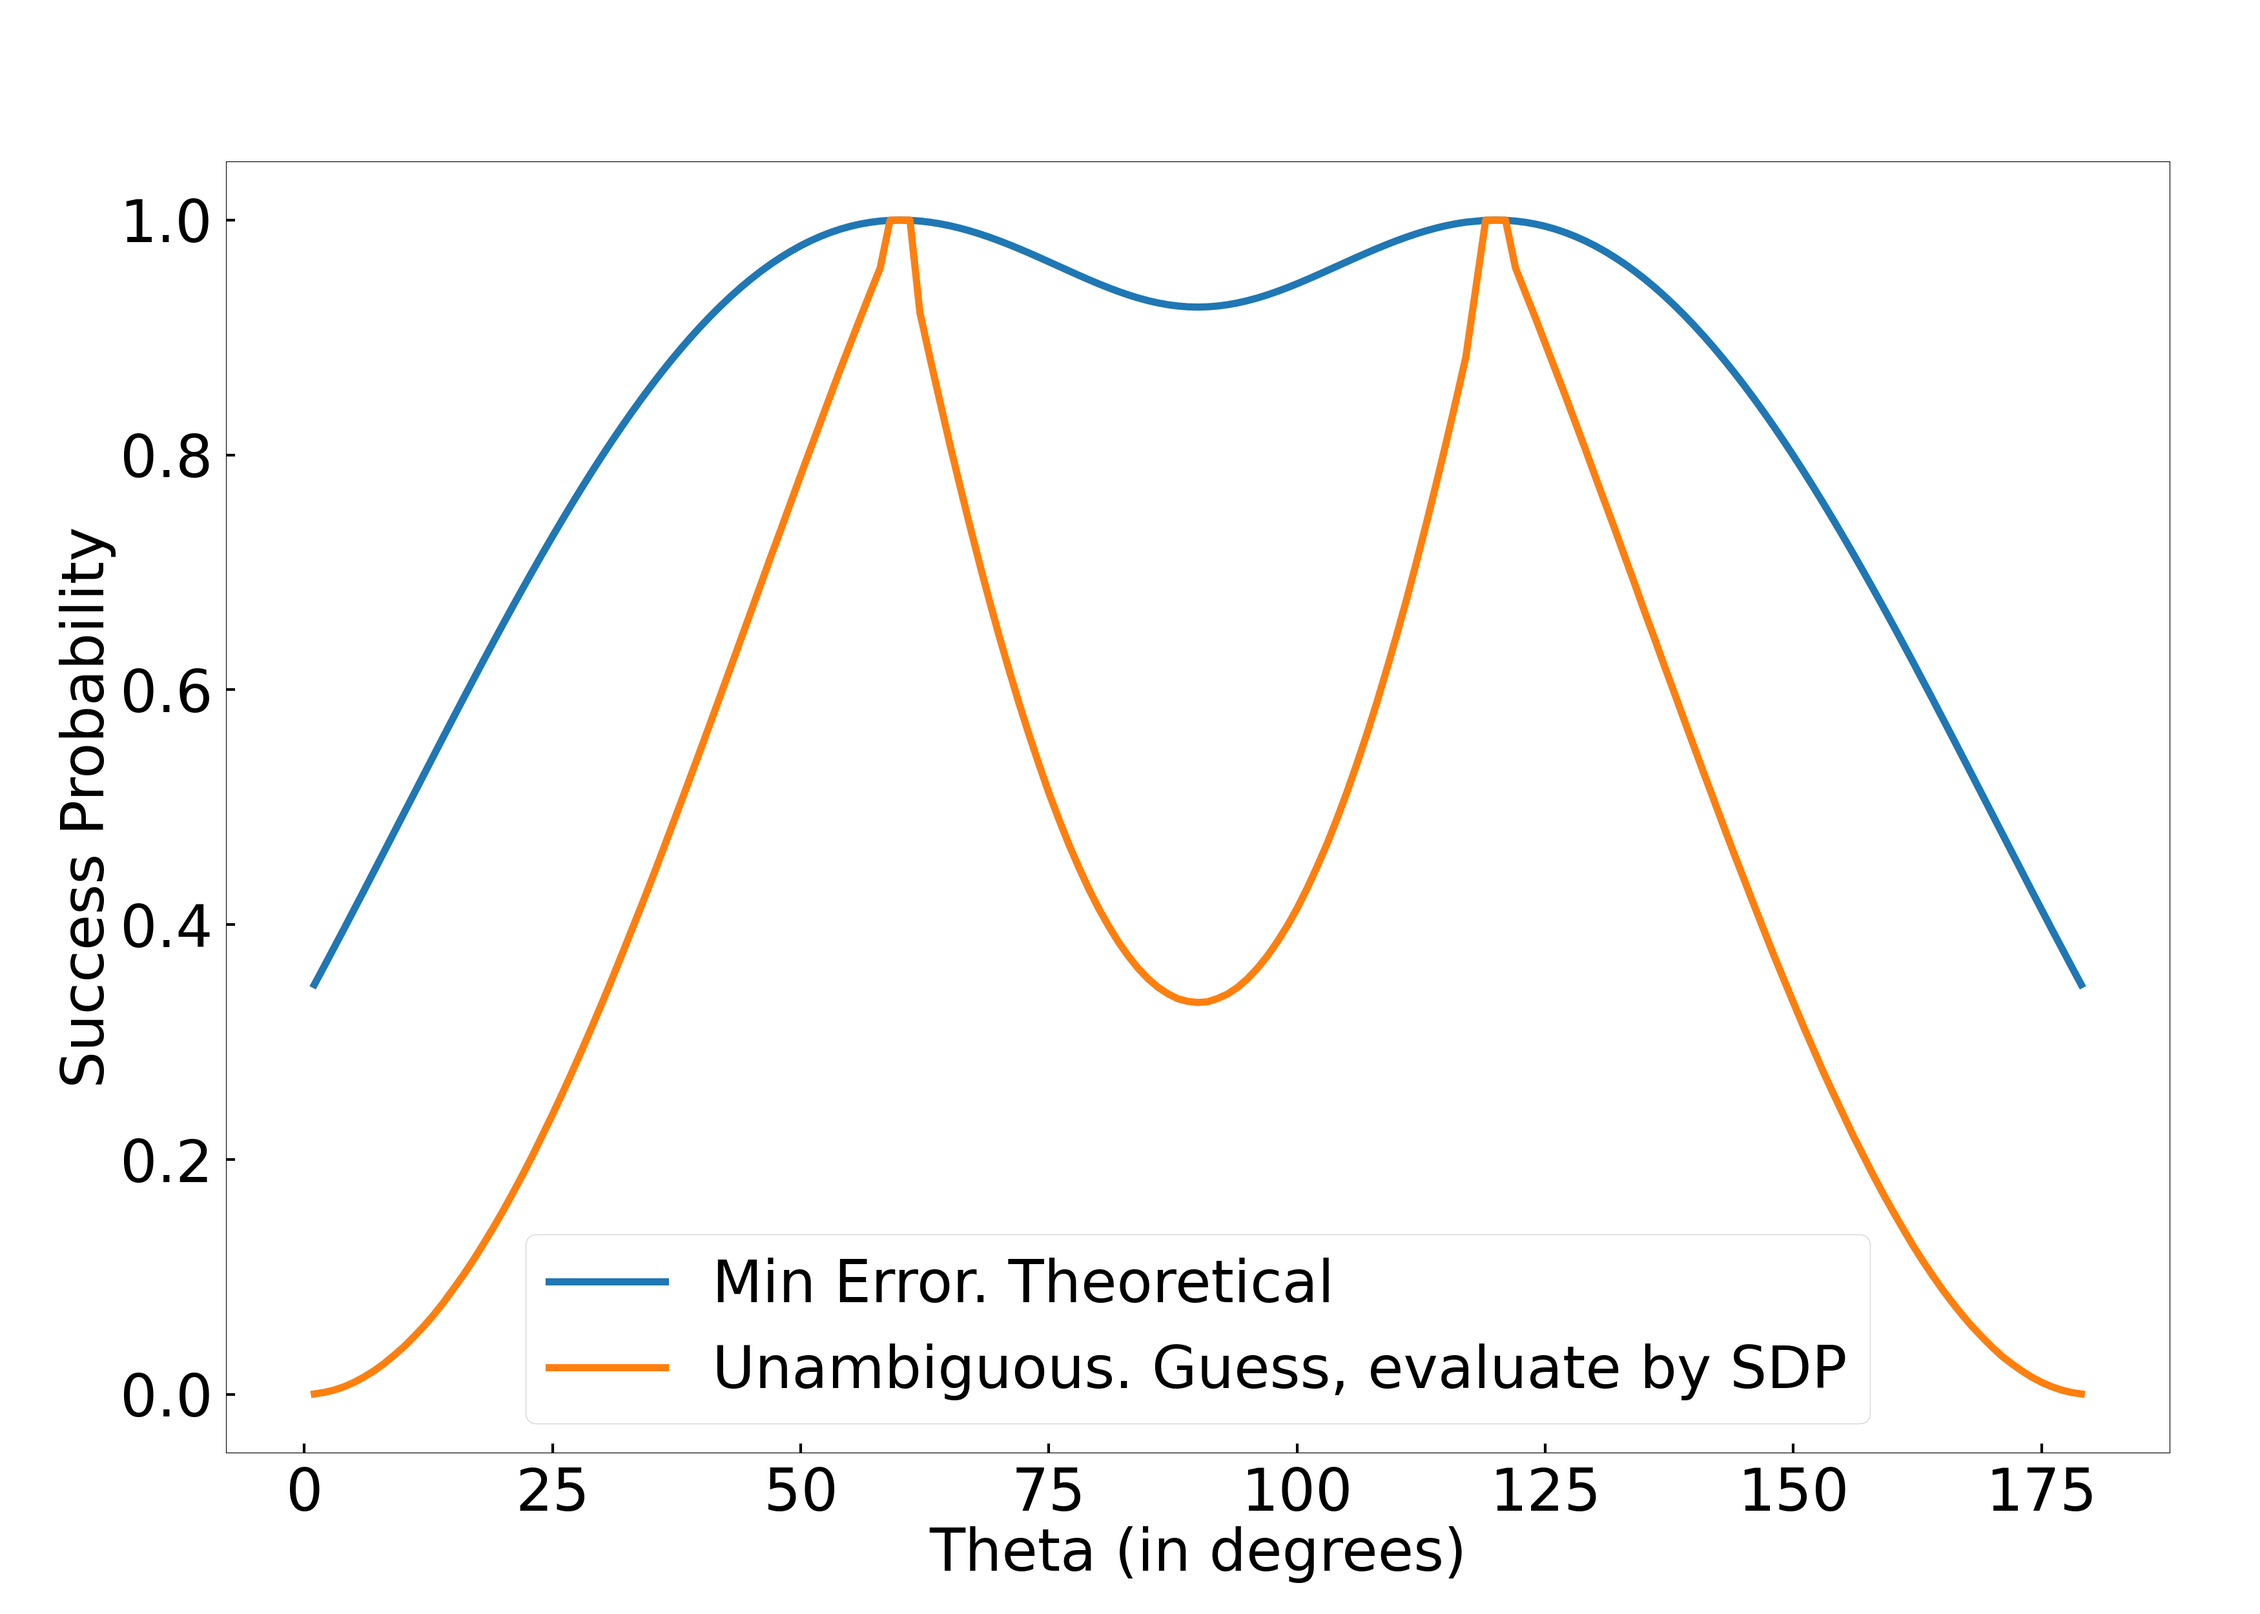
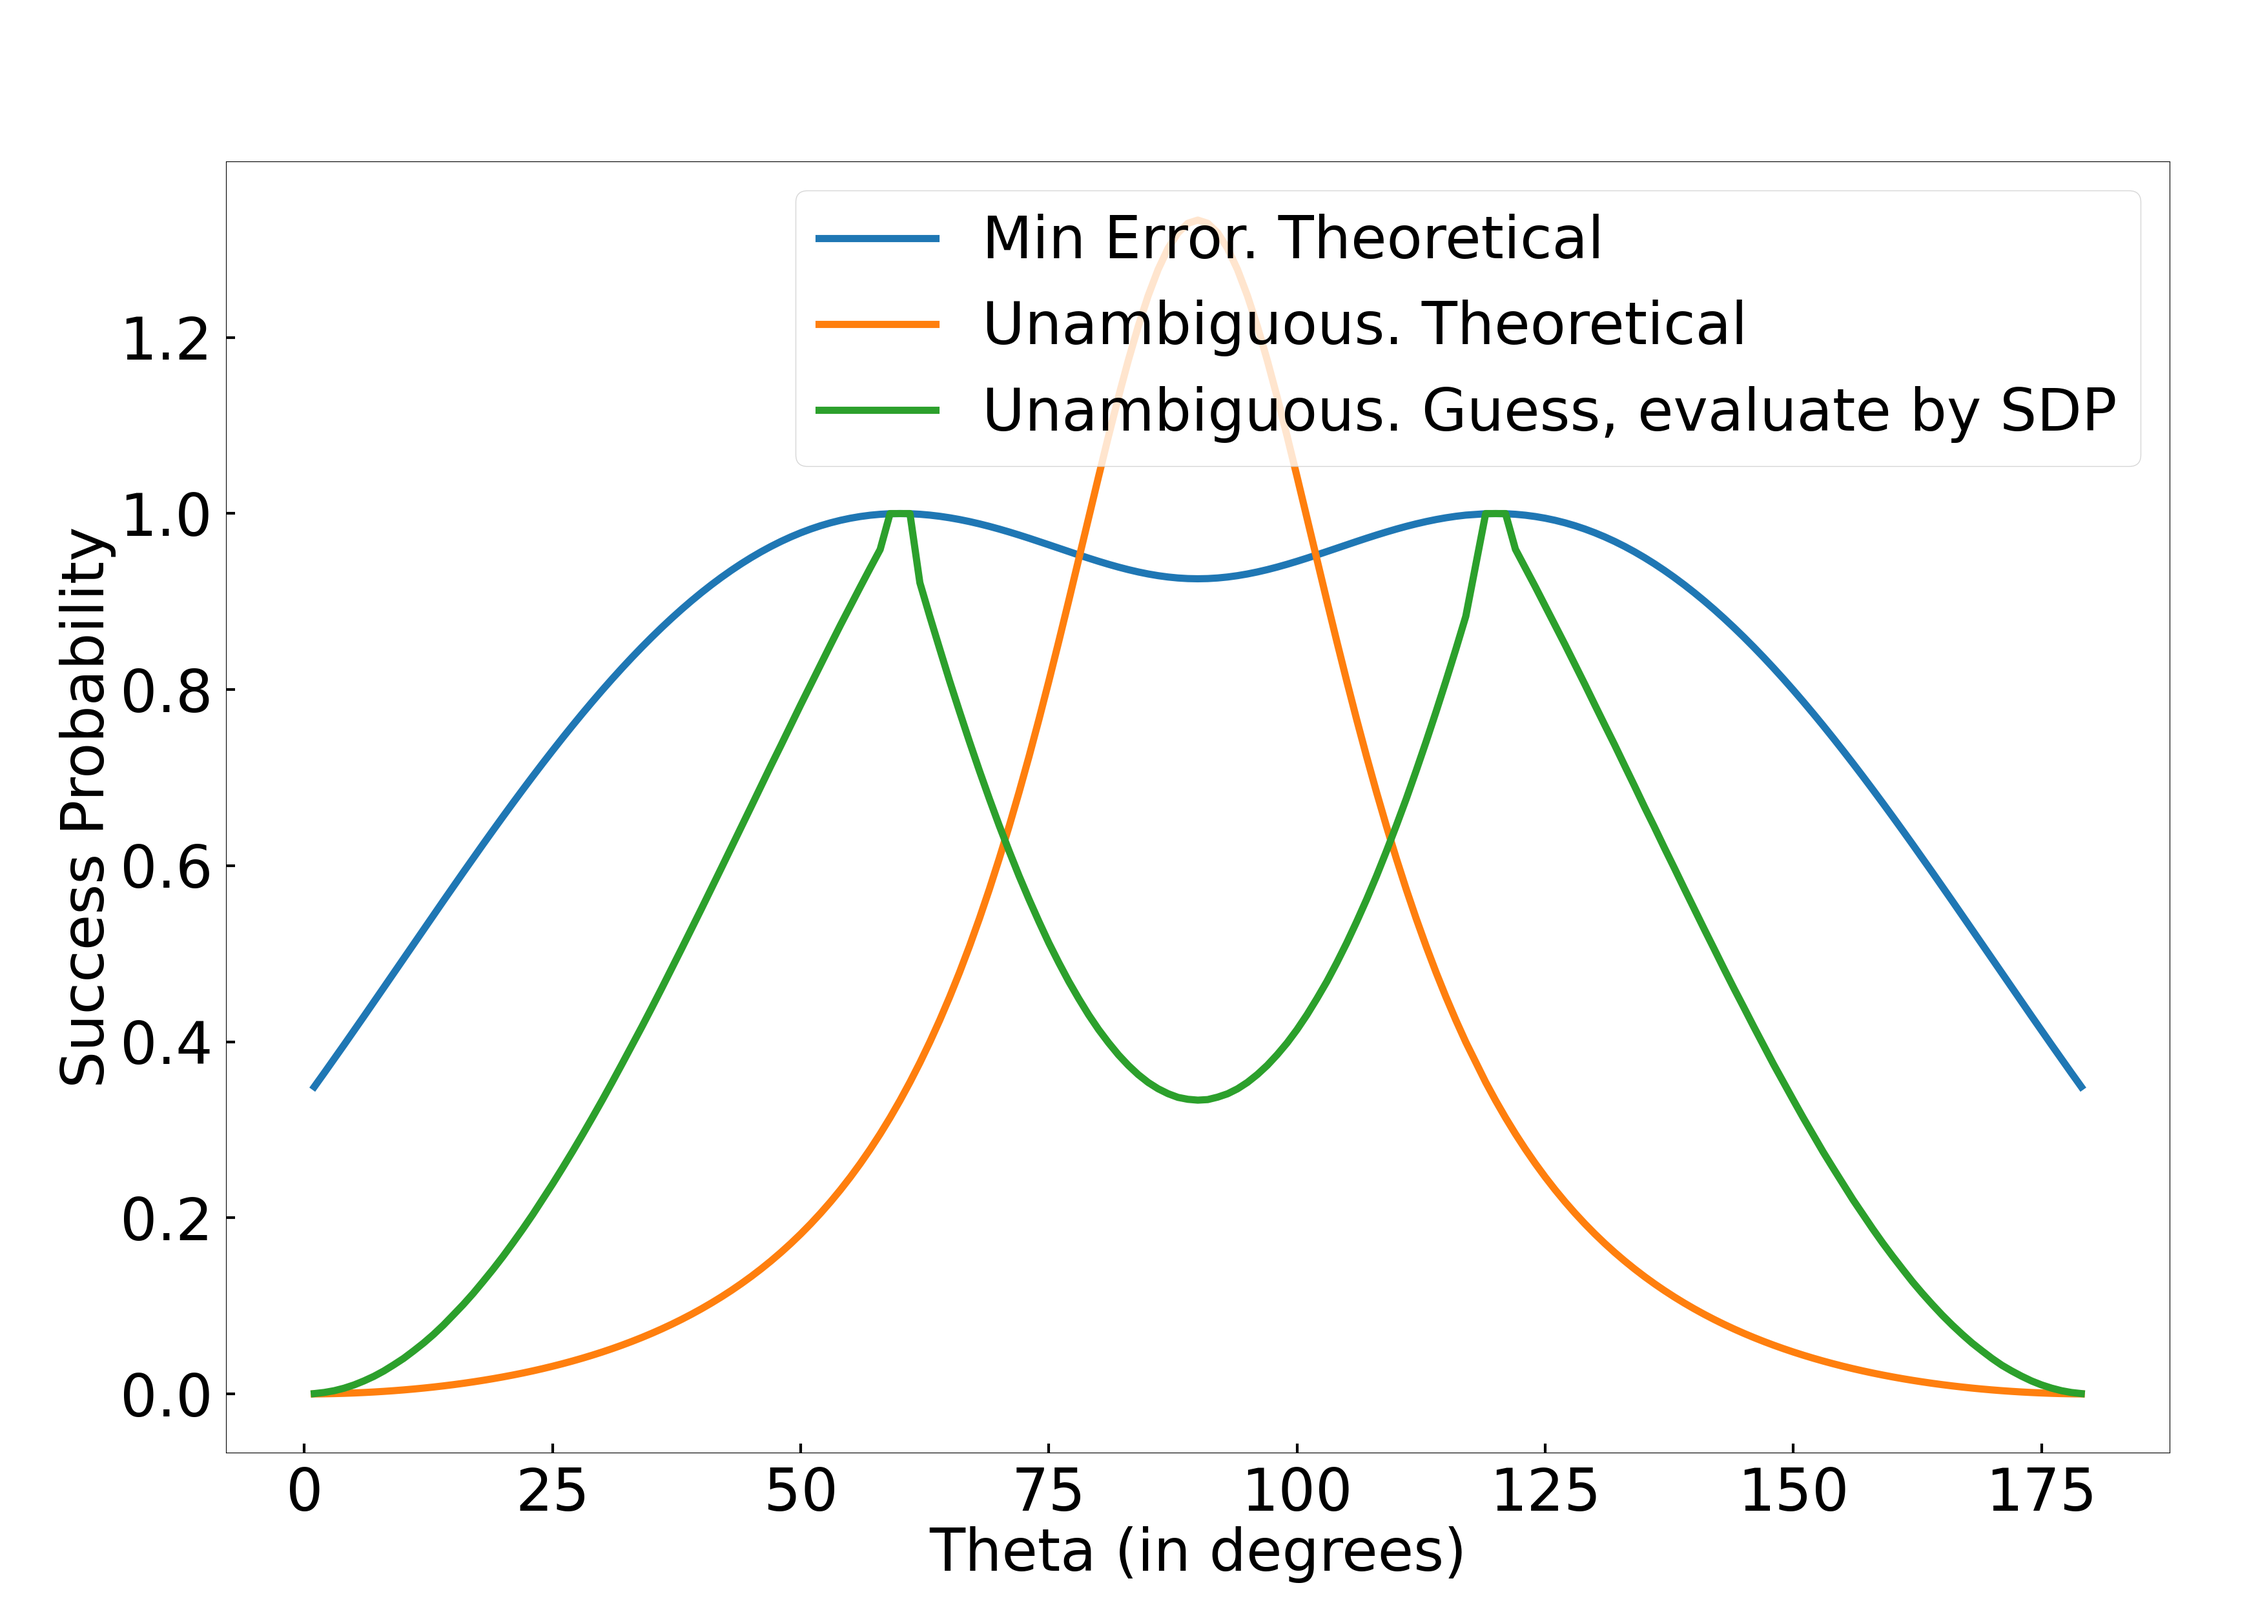
incorporate an upper bound

diff --git a/plot.py b/plot.py
@@ -1,7 +1,8 @@
+import numpy as np
 import matplotlib.pyplot as plt
 from logger import Logger
-import numpy as np
-
+from optimize_initial_state import OptimizeInitialState
+from utility import Utility
 
 class Plot:
 
@@ -152,6 +153,7 @@ def vary_startseed():
     Plot.vary_startseed(data, filename)
 
 
+# min error discrimination, 3 sensors, varying the theta of the unitary operator
 def special_u():
     RAD = 180 / np.pi
     def theory(theta):
@@ -190,8 +192,8 @@ def special_u():
     y_hillclimb = [max(y0, y1) for y0, y1 in zip(y_hillclimb0, y_hillclimb1)]
     fig, ax = plt.subplots(1, 1, figsize=(35, 25))
     fig.subplots_adjust(left=0.1, right=0.96, top=0.9, bottom=0.1)
-    ax.plot(X, y_theory, label='Theoritical equation')
-    ax.plot(X, y_guess, label='Guess, evaluate by SDP')
+    ax.plot(X, y_theory, label='Guess, Theoritical equation')
+    ax.plot(X, y_guess, label='Guess, Evaluate by SDP')
     ax.plot(X, y_hillclimb, label='Hill climbing')
     ax.legend()
     ax.set_xlabel('Theta (in degrees)')
@@ -201,14 +203,16 @@ def special_u():
     filename = 'result/4.6.2022/varying_theta'
     fig.savefig(filename)
 
-    # print(data[0][1]['Guess'].init_state)
 
-
+# unambiguous discrimination, 3 sensors, varying the theta of the unitary operator
 def special_u_2():
     RAD = 180 / np.pi
-    def theory(theta):
+    def theory_minerror(theta):
         alpha = np.sqrt(5 + 4*np.cos(2*theta))
         return 1./27 * (8*alpha*abs(np.sin(theta)) - 4*np.cos(2*theta) + 13)
+
+    def theory_unambiguous(theta):
+        return 1./3 * (4 * np.sin(theta)**2) / (8 * np.cos(theta)**2 + 1)
 
     logs = ['result/4.11.2022/varying_theta_unambiguous']
     X_y = []
@@ -221,12 +225,15 @@ def special_u_2():
     X_y.sort()
     X = [x for x, _ in X_y]
     y_guess = [y for _, y in X_y]
-    y_theory = []
+    y_theory_minerror = []
+    y_theory_unambiguous = []
     for x in X:
-        y_theory.append(theory(x/RAD))
+        y_theory_minerror.append(theory_minerror(x/RAD))
+        y_theory_unambiguous.append(theory_unambiguous(x/RAD))
     fig, ax = plt.subplots(1, 1, figsize=(35, 25))
     fig.subplots_adjust(left=0.1, right=0.96, top=0.9, bottom=0.1)
-    ax.plot(X, y_theory, label='Min Error. Theoretical')
+    ax.plot(X, y_theory_minerror, label='Min Error. Theoretical')
+    ax.plot(X, y_theory_unambiguous, label='Unambiguous. Theoretical')
     ax.plot(X, y_guess, label='Unambiguous. Guess, evaluate by SDP')
     ax.legend()
     ax.set_xlabel('Theta (in degrees)')
@@ -236,9 +243,82 @@ def special_u_2():
     filename = 'result/4.11.2022/varying_theta_unambiguous'
     fig.savefig(filename)
 
-    # print(data[0][1]['Guess'].init_state)
 
+# the upperbound of the initial state generated by Guess and Hill climbing (min error)
+def upperbound():
+    RAD = 180 / np.pi
+    def theory(theta):
+        alpha = np.sqrt(5 + 4*np.cos(2*theta))
+        return 1./27 * (8*alpha*abs(np.sin(theta)) - 4*np.cos(2*theta) + 13)
 
+    logs = ['result/4.6.2022/varying_theta']
+    num_sensor = 3
+    unitary_seed = 2
+    priors = [1./3] * 3
+    X = []
+    y_guess = []
+    y_hillclimb = []
+    y_hillclimb0 = []
+    y_hillclimb1 = []
+    y_hillclimb_success = []
+    data = Logger.read_log(logs)
+    for experiment in data:
+        myinput = experiment[0]
+        output_by_method = experiment[1]
+        if output_by_method['Hill climbing'].start_seed == 0:
+            X.append(myinput.unitary_theta)
+            y_guess.append(output_by_method['Guess'].init_state)
+            y_hillclimb0.append((output_by_method['Hill climbing'].success, output_by_method['Hill climbing'].init_state))
+        if output_by_method['Hill climbing'].start_seed == 1:
+            y_hillclimb1.append((output_by_method['Hill climbing'].success, output_by_method['Hill climbing'].init_state))
+    for i in range(len(y_hillclimb0)):
+        if y_hillclimb0[i][0] > y_hillclimb1[i][0]:
+            y_hillclimb.append(y_hillclimb0[i][1])    
+            y_hillclimb_success.append(y_hillclimb0[i][0])
+        else:
+            y_hillclimb.append(y_hillclimb1[i][1])
+            y_hillclimb_success.append(y_hillclimb1[i][0])
+    
+    y_guess_ub = []
+    for unitary_theta, init_state_str in zip(X, y_guess):
+        opt_initstate = OptimizeInitialState(num_sensor)
+        opt_initstate.set_statevector_from_str(init_state_str)
+        unitary_operator = Utility.generate_unitary_operator(theta=unitary_theta, seed=unitary_seed)
+        y_guess_ub.append(opt_initstate.upperbound(unitary_operator, priors))
+    y_hillclimb_ub = []
+    for unitary_theta, init_state in zip(X, y_hillclimb):
+        opt_initstate = OptimizeInitialState(num_sensor)
+        opt_initstate.set_statevector_from_str(init_state)
+        unitary_operator = Utility.generate_unitary_operator(theta=unitary_theta, seed=unitary_seed)
+        y_hillclimb_ub.append(opt_initstate.upperbound(unitary_operator, priors))
+    
+    y_theory = []
+    for x in X:
+        y_theory.append(theory(x/RAD))
+
+    fig, ax = plt.subplots(1, 1, figsize=(35, 25))
+    fig.subplots_adjust(left=0.1, right=0.96, top=0.9, bottom=0.1)
+    ax.plot(X, y_theory, label='Guess')
+    ax.plot(X, y_guess_ub, label='Guess, Upper bound')
+    ax.legend()
+    ax.set_xlabel('Theta (in degrees)')
+    ax.set_ylabel('Success Probability')
+    ax.tick_params(axis='x', direction='in', length=10, width=3, pad=15)
+    ax.tick_params(axis='y', direction='in', length=10, width=3, pad=15)
+    filename = 'result/4.6.2022/varying_theta_guess_upperbound'
+    fig.savefig(filename)
+
+    fig, ax = plt.subplots(1, 1, figsize=(35, 25))
+    fig.subplots_adjust(left=0.1, right=0.96, top=0.9, bottom=0.1)
+    ax.plot(X, y_hillclimb_success, label='Hill climbing')
+    ax.plot(X, y_hillclimb_ub, label='Hill climbing, Upper bound')
+    ax.legend()
+    ax.set_xlabel('Theta (in degrees)')
+    ax.set_ylabel('Success Probability')
+    ax.tick_params(axis='x', direction='in', length=10, width=3, pad=15)
+    ax.tick_params(axis='y', direction='in', length=10, width=3, pad=15)
+    filename = 'result/4.6.2022/varying_theta_hillclimbing_upperbound'
+    fig.savefig(filename)
 
 
 def print_results():
@@ -267,6 +347,8 @@ if __name__ == '__main__':
     # vary_priors()
     # vary_numsensors()
     # vary_startseed()
-    special_u_2()
+    special_u()
 
     # print_results()
+
+    # upperbound()

diff --git a/optimize_initial_state.py b/optimize_initial_state.py
@@ -14,7 +14,7 @@ from input_output import Default
 
 
 class OptimizeInitialState(QuantumState):
-    '''Optimize the initial state
+    '''A quantum state that has optimization capabilities, i.e., optimizing the initial state.
     '''
     def __init__(self, num_sensor: int):
         super().__init__(num_sensor=num_sensor, state_vector=None)
@@ -28,6 +28,35 @@ class OptimizeInitialState(QuantumState):
         s = f'\n{self.optimize_method}\nInitial state:\n'
         parent = super().__str__()
         return s + parent
+
+    def set_statevector_from_str(self, s: str):
+        '''set the self._state_vector from the __str__() string
+        Args:
+            s -- the __str__() string
+            Example:
+
+            Guess
+            Initial state:
+            |000>:  0.31088  0.3194i
+            |001>:  0.42490 -0.0000i
+            |010>:  0.42490 -0.0000i
+            |011>: -0.19850  0.2039i
+            |100>:  0.42490 -0.0000i
+            |101>: -0.19850  0.2039i
+            |110>: -0.19850  0.2039i
+            |111>: -0.00349 -0.1295i
+        '''
+        statevector = []
+        s = s.split('\n')
+        for line in s:
+            if '>:' in line:
+                line = line.split()
+                real = line[1]
+                imag = line[2]
+                real = float(real.strip())
+                imag = float(imag[:-1].strip())
+                statevector.append(complex(real, imag))
+        self._state_vector = np.array(statevector)
 
     def check_state(self):
         '''check if the amplitudes norm_squared add up to one
@@ -47,6 +76,24 @@ class OptimizeInitialState(QuantumState):
         for a in state_copy:
             magnitude_squared += abs(a)**2
         return state_copy / np.sqrt(magnitude_squared)
+
+    def upperbound(self, unitary_operator: Operator, priors: list):
+        '''an upper bound from equation (10) of this paper: https://arxiv.org/pdf/1509.04592.pdf
+        '''
+        init_state = QuantumState(self.num_sensor, self.state_vector)
+        quantum_states = []
+        for i in range(self.num_sensor):
+            evolve_operator = Utility.evolve_operator(unitary_operator, self.num_sensor, i)
+            init_state_copy = copy.deepcopy(init_state)
+            init_state_copy.evolve(evolve_operator)
+            quantum_states.append(init_state_copy)
+        summ = 0
+        for i in range(self.num_sensor):
+            for j in range(self.num_sensor):
+                psi_i = quantum_states[i].state_vector
+                psi_j = quantum_states[j].state_vector
+                summ += 2 * np.sqrt(abs(((priors[i] + priors[j])/2)**2 - priors[i]*priors[j]*(abs(np.dot(np.conj(psi_i), psi_j)))**2))
+        return 1./self.num_sensor + 1./(2*self.num_sensor)*summ
 
     def random(self, seed, unitary_operator: Operator):
         '''ignore the unitary operator and randomly initialize a quantum state

diff --git a/quantum_state.py b/quantum_state.py
@@ -29,6 +29,10 @@ class QuantumState:
     def state_vector(self):
         return self._state_vector
 
+    @state_vector.setter
+    def state_vector(self, vector: np.array):
+        self._state_vector = vector
+
     @property
     def density_matrix(self):
         if self._density_matrix is None:
@@ -63,8 +67,8 @@ class QuantumState:
             state = Utility.integer2bit(index, num_of_bit)
             if type(amplitude) is np.complex128:
                 real = f'{amplitude.real:.5f}'
-                imag = f'{amplitude.imag:.4f}'
-                string += f'|{state}>: {real:>8}{imag:>8}i\n'
+                imag = f'{amplitude.imag:.5f}'
+                string += f'|{state}>: {real:>8} {imag:>8}i\n'
             else:
                 string += f'|{state}>: {amplitude}\n'
         return string

diff --git a/input_output.py b/input_output.py
@@ -167,4 +167,4 @@ class HillclimbOutput:
         return cls(outdict['experiment_id'], outdict['method'], outdict['error'], outdict['success'], \
                    outdict['start_seed'], outdict['mod_step'], outdict['amp_step'], outdict['decrease_rate'], \
                    outdict['min_iteration'], outdict['real_iteration'], outdict['init_state'], outdict['scores'], \
-                   outdict['runtime'], outdict['eval_metric'])
+                   outdict['runtime'], outdict['eval_metric'] if 'eval_metric' in outdict else None)

diff --git a/utility.py b/utility.py
@@ -144,3 +144,4 @@ class Utility:
             return U
         else:
             raise Exception('Failed to generate an unitary matrix')
+
